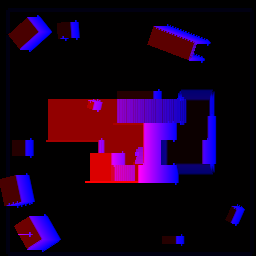
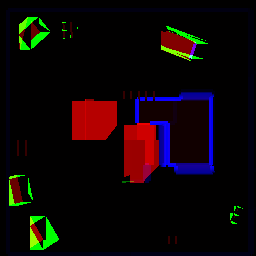
.

diff --git a/Assets/ShadowTest/Custom/GenerateMapHeightTex.cs b/Assets/ShadowTest/Custom/GenerateMapHeightTex.cs
@@ -114,6 +114,9 @@ namespace ShadowTest.Custom {
             public float3 Vertices1;
             public float3 Vertices2;
             public float3 Vertices3;
+            /// <summary>
+            /// 世界空间下的法线
+            /// </summary>
             public float3 Normal;
         }
 
@@ -478,16 +481,16 @@ namespace ShadowTest.Custom {
                     triangleInfo.Vertices1 = math.mul(ShadowMatrix, meshInfoVo.MeshWordPos1);
                     triangleInfo.Vertices2 = math.mul(ShadowMatrix, meshInfoVo.MeshWordPos2);
                     triangleInfo.Vertices3 = math.mul(ShadowMatrix, meshInfoVo.MeshWordPos3);
-                    triangleInfo.Normal = math.normalize(math.cross(triangleInfo.Vertices2 - triangleInfo.Vertices1,
-                        triangleInfo.Vertices3 - triangleInfo.Vertices2));
+                    triangleInfo.Normal = math.normalize(math.cross(meshInfoVo.MeshWordPos2 - meshInfoVo.MeshWordPos1,
+                        meshInfoVo.MeshWordPos3 - meshInfoVo.MeshWordPos2));
                 }
 
                 CheckBounds(ref triangleInfo.Left, ref triangleInfo.Right, ref triangleInfo.Bottom,
-                    ref triangleInfo.Top, ref triangleInfo.Back, ref triangleInfo.Front, triangleInfo.Vertices1);
+                    ref triangleInfo.Top, ref triangleInfo.Back, ref triangleInfo.Front, meshInfoVo.MeshWordPos1);
                 CheckBounds(ref triangleInfo.Left, ref triangleInfo.Right, ref triangleInfo.Bottom,
-                    ref triangleInfo.Top, ref triangleInfo.Back, ref triangleInfo.Front, triangleInfo.Vertices2);
+                    ref triangleInfo.Top, ref triangleInfo.Back, ref triangleInfo.Front, meshInfoVo.MeshWordPos2);
                 CheckBounds(ref triangleInfo.Left, ref triangleInfo.Right, ref triangleInfo.Bottom,
-                    ref triangleInfo.Top, ref triangleInfo.Back, ref triangleInfo.Front, triangleInfo.Vertices3);
+                    ref triangleInfo.Top, ref triangleInfo.Back, ref triangleInfo.Front, meshInfoVo.MeshWordPos3);
 
                 if(NeedLimitRight && triangleInfo.Left > RightLimit ||
                    NeedLimitLeft && triangleInfo.Right < LeftLimit ||
